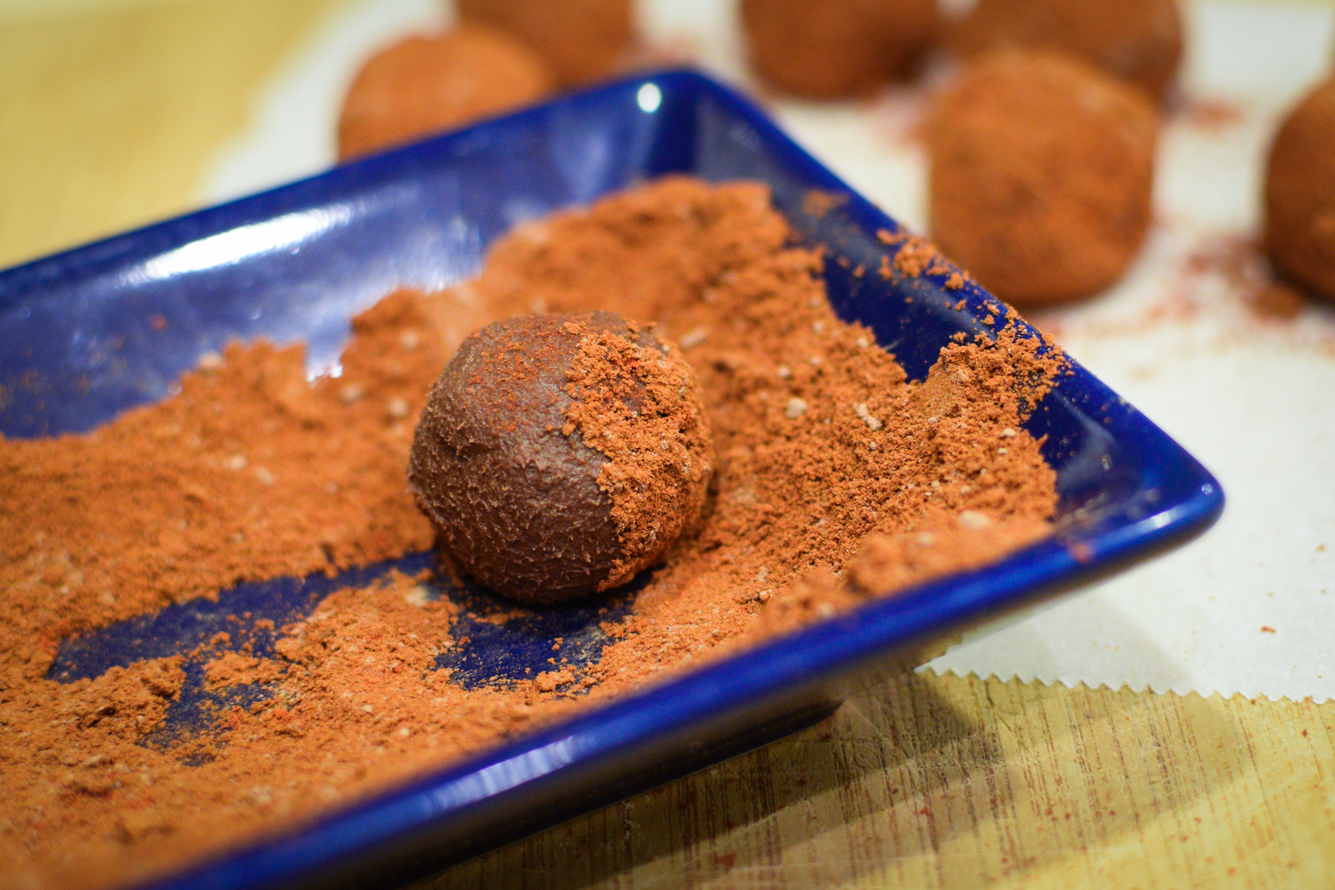
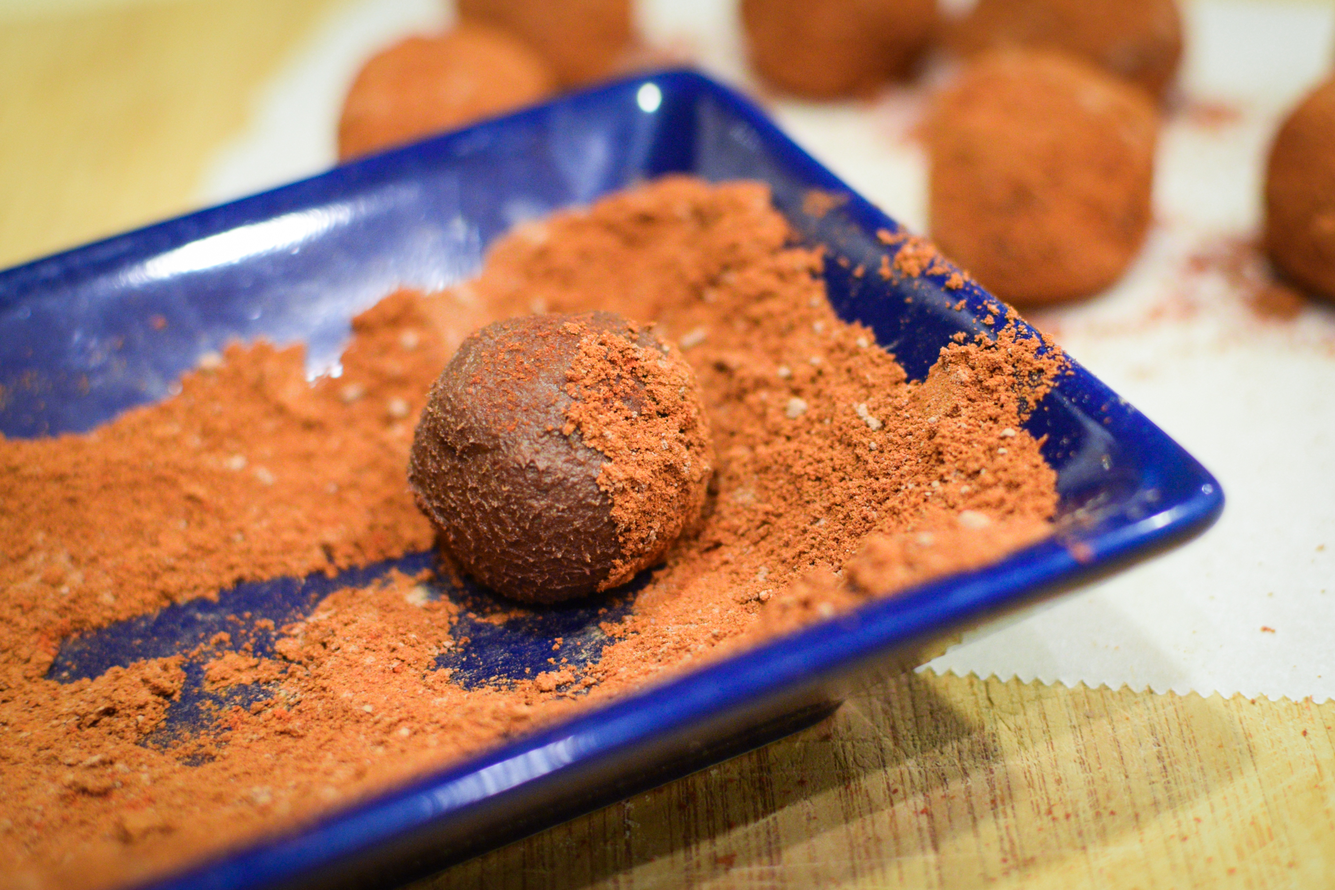
Continue working on new draft posts.

Changed region(s): [[0.4056, 0.0312, 0.4368, 0.0624]]

diff --git a/Gruntfile.js b/Gruntfile.js
@@ -280,7 +280,7 @@ module.exports = function(grunt) {
         ]
       },
 
-      test:{
+      test: {
         src: 'karma.conf.js',
         fileTypes: {
           js: {

diff --git a/src/_drafts/recipes/2017-01-25-hot-lemon-cures-what-ails-you.md b/src/_drafts/recipes/2017-01-25-hot-lemon-cures-what-ails-you.md
@@ -1,0 +1,54 @@
+---
+layout: post
+title: "Hot Lemon, Cures What Ails You"
+excerpt: "They can't all be until death. Time changes us, distance separates us. Even those relationships that endure those strains and batterings ebb and flow as we navigate the practical concerns of remaining alive."
+category: recipes
+tags: [drinks, cocktails, winter, cloves]
+image:
+  feature: DSC_1690.jpg
+  credit: Sarah Quigley
+  creditlink: "http://sarahquigley.net"
+  thumb: DSC_1690.jpg
+comments: true
+share: true
+recipe:
+  title: Hot Lemon Drink, for One
+  meta:
+    preparation-time: 5 minutes
+    yield: 1 drink 
+  notes:
+    - This is basically a hot toddy on crack. (The secret ingredient is the cloves. They really take this to the next level.)
+    - I like to play it pretty fast and loose with this drink, following instinct and adding a little of this and that until it tastes right. I recommend you do the same, but here are some measures to set you on the right track.
+    - "Don't feel like measuring? My general guideline is 'More lemon and honey than you think, and plenty of cloves!'"
+    - For more servings, multiply it up and mix in a pitcher or jug - or prepare individual portions separately as described below. 
+  ingredient-lists:
+    main:
+      ingredients:
+        - 3 - 4 tbsp (45 - 60 ml) lemon juice (juice of ~ 1 lemon)
+        - 1 - 2 tbsp honey
+        - 1/2 cup (125 ml) boiling water, or more to taste
+        - 2 - 3 tbsp (30 - 45 ml) whiskey (optional, but advised and delicious)
+        - Generous sprinkling of whole cloves
+  method:
+    main:
+      steps:
+        - Using boiling water, pre-warm a glass, tumbler or mug, then discard the water.
+        - Mix lemon juice, honey, water and whiskey (if using) in the pre-warmed cup. (Begin with smaller volumes of each, and then adjust to taste.)
+        - Add cloves and serve.
+
+---
+
+{: .dropcap }
+They can't all be until death. Time changes us, distance separates us. Even those relationships that endure those strains and batterings ebb and flow as we navigate the practical concerns of remaining alive. And then we die anyway.
+
+Do you ever think of the legacies left by those lost or far away acquaintances, friends and lovers - not just the ways they changed and shaped you, but the little seemingly insignificant traces they left behind?    
+
+{% include image-group.html images="DSC_1589.jpg DSC_1670.jpg" entry=page image-popup=true %}
+
+{% include image-group.html images="DSC_1680.jpg DSC_1698.jpg" entry=page image-popup=true %}
+
+Nancy left me with a new found appreciation for lavender, citronella and starched sheets, and a taste of how to keep a sense of humour in the face of aching joints and encroaching age. Cian transformed my commutes with cycling, which if you know me is more significant than it sounds. Mike took me deep into the beautiful abyss of abstract computer programming - and together we learned how caring deeply someone can sometimes mean letting them go...
+
+And though he doesn't know it, another Cian, Cian O'hEigeartaigh, the father of my first deep love, left me hot lemon drinks, his cure all - and now mine. And now I gift this drink to you, to cure what ails you.
+
+(The whiskey wasn't in his original recipe, but I like to think it was implied.)

diff --git a/src/_drafts/recipes/2016-12-26-chocolate-truffles-three-ways.md b/src/_drafts/recipes/2016-12-26-chocolate-truffles-three-ways.md
@@ -34,6 +34,8 @@ recipe:
 {: .dropcap }
 Lorem ipsum dolor sit amet, consectetur adipiscing elit. Proin viverra eu sapien sit amet luctus. In id enim lacus. Phasellus fermentum dignissim vulputate. Curabitur finibus bibendum finibus. Fusce eros magna, eleifend in ex ut, hendrerit malesuada massa. Fusce condimentum at dolor sit amet pellentesque. Sed dignissim nibh at elit varius tempor. Sed eu lectus risus. Proin sed varius purus, nec mollis turpis. Donec eget ornare lacus, in commodo libero. Nam placerat, arcu ac condimentum ullamcorper, felis mauris bibendum tortor, ut mattis elit orci in justo. Duis at purus arcu. Phasellus ac magna eleifend, molestie tortor quis, consectetur magna. Fusce nec ornare sapien, nec dictum lorem.
 
-{% include image-group.html images="DSC_2123.jpg" entry=page image-popup=true %}
+{% include image-group.html images="DSC_1780.jpg DSC_1928.jpg" entry=page image-popup=true %}
+
+{% include image-group.html images="DSC_2123.jpg DSC_2335.jpg" entry=page image-popup=true %}
 
 Lorem ipsum dolor sit amet, consectetur adipiscing elit. Proin viverra eu sapien sit amet luctus. In id enim lacus. Phasellus fermentum dignissim vulputate. Curabitur finibus bibendum finibus. Fusce eros magna, eleifend in ex ut, hendrerit malesuada massa. Fusce condimentum at dolor sit amet pellentesque. Sed dignissim nibh at elit varius tempor. Sed eu lectus risus. Proin sed varius purus, nec mollis turpis. Donec eget ornare lacus, in commodo libero. Nam placerat, arcu ac condimentum ullamcorper, felis mauris bibendum tortor, ut mattis elit orci in justo. Duis at purus arcu. Phasellus ac magna eleifend, molestie tortor quis, consectetur magna. Fusce nec ornare sapien, nec dictum lorem.
